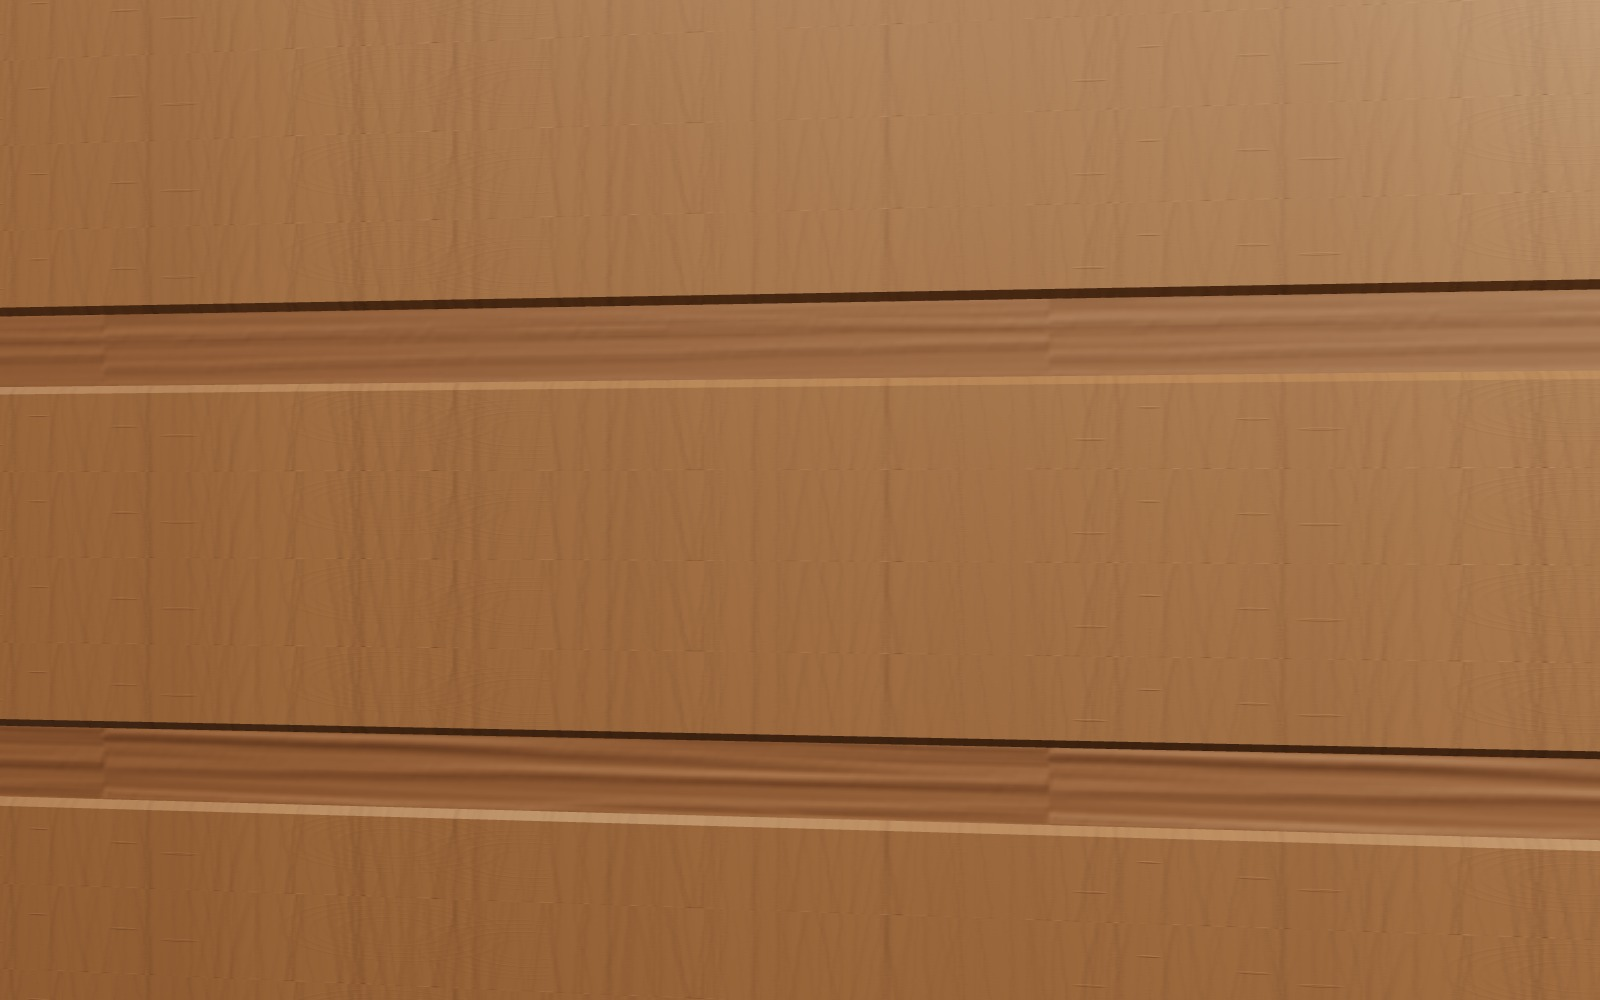
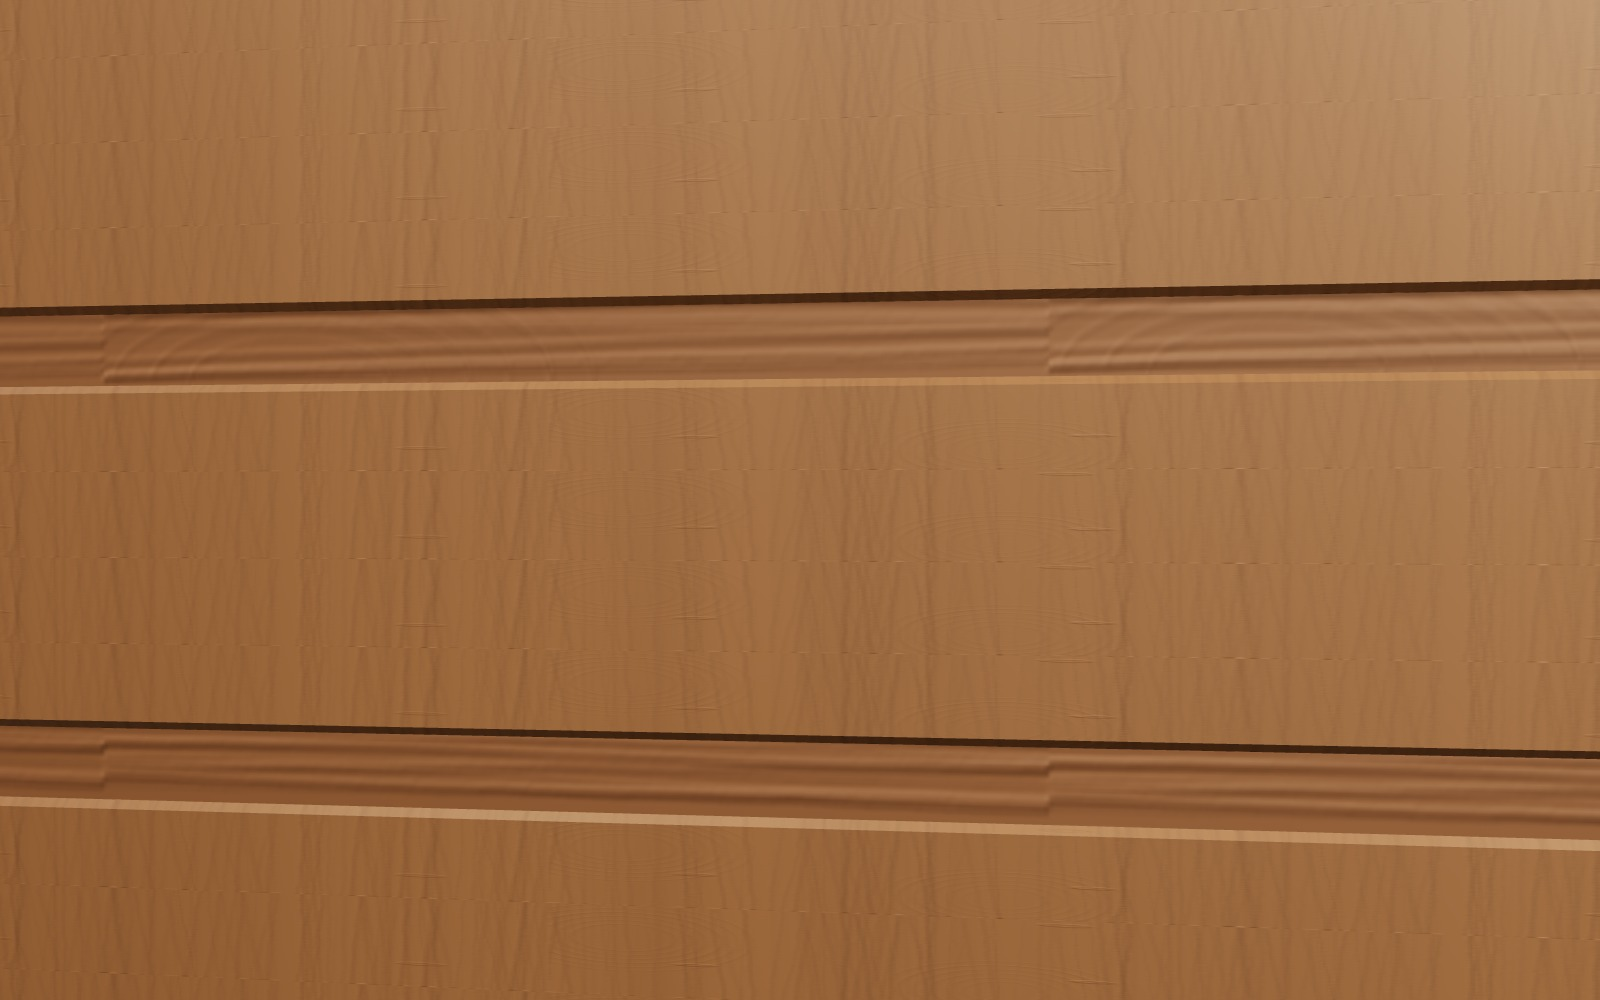
pantry corner corrected: real doorway photo-confirmed, blank chamfer, slider provisional behind one question — plus fresh stills + 17-card decide queue
source-commit: 18a1acdcde2c43df9d43f6489387a1fca3f50dda

diff --git a/house-3d.html b/house-3d.html
@@ -180,9 +180,14 @@ const PLAN = {
     // door is the measured swing on the chamfer (wall45d). D18 was the SAME door
     // mis-hosted here by the disproven frame (C-50: "was a swing leaf"); its
     // slider successor lives on the PROPOSED extended wall (wall45sq below).
-    // C-75 addendum: z1 DERIVES from SLIDER — the wall south of the split is
-    // w_peS (existing only, below), so the proposed opening never cuts this.
-    {id:'w_pe',  x0:186.2,  x1:192.3, z0:-95.5, z1:SLIDER.z1, tint:0xdfd8c9},
+    // C-74 add.3: the pantry east wall is now w_peN + [the peDoor band] + w_peD.
+    // The band z -90.7..-57.7 (33", position INFERRED, video says south-biased)
+    // is the REAL pantry doorway: swing leaf existing (alder E face, WHITE W
+    // back), provisional OPEN access in the proposal until Kitchen's Phase-2
+    // sites the slider (C-75 cut PROVISIONAL, gated on the 30-SLIDE answer).
+    // Walls builds the band from peDoor below; buildWall never sees it.
+    {id:'w_peN', x0:186.2,  x1:192.3, z0:-95.5, z1:-90.7, tint:0xdfd8c9},
+    {id:'w_peD', x0:186.2,  x1:192.3, z0:-57.7, z1:-52.9, tint:0xdfd8c9},
     // ONE continuous north wall: bathroom, pantry and the kitchen sink leg all
     // share it. The old k_n / k_nw jog was a fabrication.
     {id:'w_back',x0:-110.4, x1:174.1, z0:-101.5,z1:-95.5},
@@ -217,8 +222,12 @@ const PLAN = {
   // continuation (x 152.3..186.2 flat at z -25..-19) into the proposed state.
   // It carries THE pantry door (M-9c): ~33" leaf, hinge 5.2" from the south end,
   // swings into dining. As-built swing; C-50 makes it a slider in the proposal.
-  wall45d:{id:'w_45d', ax:152.3, az:-19, bx:186.2, bz:-52.9, t:6, existOnly:true,
-           door:{off:5.2, w:33, casing:2.5}},
+  // C-74 add.3: NO door on the chamfer — Poly-Doors recorded D18's OPEN LEAF
+  // standing in this plane (the detector records the leaf, not the doorway);
+  // shelves wrap the chamfer inside the pantry. Blank face, existing state.
+  wall45d:{id:'w_45d', ax:152.3, az:-19, bx:186.2, bz:-52.9, t:6, existOnly:true},
+  // C-74 add.3: the real pantry doorway band — see w_peN/w_peD comment above.
+  peDoor:{x0:186.2, x1:192.3, z0:-90.7, z1:-57.7, inferred:true},
   // C-74 addendum: the PROPOSAL's shell at the same corner (design geometry —
   // the squaring decision C-2/M-9b, not a measurement). TWO pieces, both
   // proposal-state (G.cab per Core's engine call): the squared run-wall band,
@@ -232,12 +241,12 @@ const PLAN = {
             // C-75 (by delegation): concealed top-hung track, opening HARD
             // against the corner end, leaf parks north, alder slab (C-21).
             // ⚠ w:33 is a CEILING — at 33.5" no slider of any type fits (C-75).
+            // ⚠ C-74 add.3: PROVISIONAL — DO NOT BUILD. peExt alone (27.9")
+            // cannot host this 33" cut; siting is Kitchen's Phase-2 call,
+            // gated on Jake's 30-SLIDE answer (C-75 addendum 2 decision rule).
             door:{z0:SLIDER.z0, z1:SLIDER.z1, w:SLIDER.w,
-                  type:'slider-concealed', park:'north'}},
-  // C-75 addendum: the 6.6" of old pantry east wall that survives ONLY in the
-  // existing state (the proposal's opening swallows it). existOnly like wall45d;
-  // Walls builds it into G.exist. Extent derives from SLIDER — one fact.
-  w_peS:{id:'w_peS', x0:186.2, x1:192.3, z0:SLIDER.z1, z1:-52.9, existOnly:true},
+                  type:'slider-concealed', park:'north', provisional:true}},
+
   rooms:[
     {id:'bath', l:'BATHROOM', x0:0,     x1:75.75, z0:-101.5,z1:-19},     // 6'-3-3/4" x 5'-10-1/2"
     {id:'pant', l:'PANTRY',   x0:81.82, x1:186.2, z0:-101.5,z1:-19},     // C-74: east wall measured at ~186 (was circular 86.2 wide)
@@ -1082,22 +1091,15 @@ PLAN.walls.forEach(buildWall);
   const at=a=>a-len/2;                                  // face distance -> local x
   const seg=(a,b,y0,y1,m,d,z)=>{ if(b-a<=0.05||y1-y0<=0.05) return;
     box(b-a, y1-y0, d||w.t, m||MAT.wall, at((a+b)/2), (y0+y1)/2, z||0, g); };
-  const o0=w.door.off, o1=w.door.off+w.door.w, C=w.door.casing, CT=0.8, R=0.05;
-  seg(0,o0,0,H); seg(o1,len,0,H); seg(o0,o1,DOOR_H,H);  // jambs + header
-  // baseboard, dining face only — the run wall's own base dies at x=152.3 and a
-  // baseboard that stops mid-wall is exactly what gets noticed
-  seg(0,o0,0,5.5,MAT.base,0.7,F+0.35); seg(o1,len,0,5.5,MAT.base,0.7,F+0.35);
-  // casing. The legs run R PAST the opening, never short of it — stopping short
-  // hands the reveal to the wall and turns 6" of alder jamb into white plaster,
-  // which is the regression Jake caught on the other three doors today.
-  const csg=(a,b,y0,y1)=>box(b-a, y1-y0, w.t+CT*2, MAT.alder, at((a+b)/2), (y0+y1)/2, 0, g);
-  csg(o0-C,o0+R,0,DOOR_H+C); csg(o1-R,o1+C,0,DOOR_H+C); csg(o0-C,o1+C,DOOR_H,DOOR_H+C);
-  // leaf, closed, on the dining face. In G.exist rather than G.leafC/G.leafO, so
-  // it follows the STATE (this door does not exist in the proposal) rather than
-  // the Doors toggle — it is deliberately not animated.
-  box(o1-o0-0.2, DOOR_H-1, 1.75, MAT.alder, at((o0+o1)/2), (1+DOOR_H)/2, F+1.08, g);
-  for(const p of [[5,DOOR_H*0.44],[DOOR_H*0.5,DOOR_H-4]])
-    box(o1-o0-6.2, p[1]-p[0], 0.35, MAT.panel, at((o0+o1)/2), (p[0]+p[1])/2, F+1.78, g);
+  // ⚠ BLANK FACE — no door here. C-74 addendum 3: the frame-verified video shows
+  // SHELVING WRAPPING THIS CORNER BAY inside the pantry, and nobody shelves across
+  // a doorway. The scan's Poly-Doors entity in this plane was D18's OPEN LEAF —
+  // a door detector records where the leaf IS, not where the doorway is. My own
+  // baseboard evidence said the same thing first and I only read half of it:
+  // three segments and two mitres at IMG_3585 put the casing on the plane AFTER
+  // the facet, not on the facet. The doorway is the peDoor band in w_pe, below.
+  seg(0,len,0,H);
+  seg(0,len,0,5.5,MAT.base,0.7,F+0.35);                 // baseboard, dining face
 })();
 // PLAN.wall45sq — the PROPOSED shell, two pieces, both G.cab so they appear only
 // with the proposal and vanish with it (the chamfer above is G.exist and does the
@@ -1123,24 +1125,33 @@ PLAN.walls.forEach(buildWall);
   }
 })();
 
-// C-75: w_peS — the 6.6" of pantry east wall SOUTH of the slider's north edge.
-// EXISTING STATE ONLY. The proposed slider's opening runs through this stretch,
-// so if this stub existed in the proposal the door would be cut through solid
-// wall; and if it did not exist in the EXISTING state, the pantry's east wall
-// would have a 6.6" hole in it — which is precisely the state the model was in
-// between Hub's PLAN split and this commit, deliberately and briefly.
-// Its extent derives from SLIDER (01-plan.js), so resizing the door moves this
-// wall with it rather than quietly reopening the old one.
-// The tint is read off w_pe rather than repeated: this IS a piece of that wall,
-// and a second literal here is a colour seam waiting for someone to retint one
-// of them. Same reason SLIDER exists at all.
+// C-74 add.3: the peDoor band — the REAL pantry doorway, in w_pe between
+// w_peN and w_peD. buildWall never sees it; the two flanking stubs are ordinary
+// PLAN.walls entries and this is the hole between them.
+//   EXISTING  jambs are the stubs themselves, so this builds the head, the casing
+//             and a swing leaf: alder face EAST (the kitchen/transition side you
+//             enter from), WHITE back WEST into the pantry, per the video.
+//   PROPOSED  left OPEN, no infill. The rework moves pantry access to C-50's
+//             slider, whose position is Kitchen's Phase-2 composition question —
+//             so leaving the band open keeps the proposal accessible instead of
+//             sealing the pantry behind a door nobody has sited yet.
+// ⚠ The leaf is built SWINGING, not parked flat. The stubs either side are 4.8",
+// and a 33" leaf cannot lie flat on 4.8" of wall — the same arithmetic that made
+// me stop building impossible parked leaves in doorSet this afternoon.
 (function(){
-  const p=PLAN.w_peS, B=5.5, T=0.7;
-  const src=PLAN.walls.find(w=>w.id==='w_pe');
-  const m=pbox(p.x0,p.x1,p.z0,p.z1,0,H,TINT(src.tint),G.exist); m.userData={y0:0,y1:H};
-  const b1=pbox(p.x0-T,p.x0,p.z0,p.z1,0,B,MAT.base,G.exist);
-  const b2=pbox(p.x1,p.x1+T,p.z0,p.z1,0,B,MAT.base,G.exist);
-  b1.userData=b2.userData={y0:0,y1:B};
+  const p=PLAN.peDoor, C=3.2, CT=0.8, R=0.05, B=5.5, T=0.7;
+  const tint=TINT(PLAN.walls.find(w=>w.id==='w_peN').tint);
+  const A=(z0,z1,y0,y1,m)=>{const b=pbox(p.x0-CT,p.x1+CT,z0,z1,y0,y1,m,G.exist);
+    b.userData={y0,y1}; return b;};
+  A(p.z0,p.z1,DOOR_H,H,tint);                           // header over the opening
+  A(p.z0-C,p.z0+R,0,DOOR_H+C,MAT.alder);                // casing, running PAST the
+  A(p.z1-R,p.z1+C,0,DOOR_H+C,MAT.alder);                // opening, never short
+  A(p.z0-C,p.z1+C,DOOR_H+R,DOOR_H+C,MAT.alder);
+  // swing leaf, hinged at the south jamb, standing ~30 deg into the transition
+  const wdt=p.z1-p.z0, g=new THREE.Group();
+  g.position.set(p.x1,0,p.z1); g.rotation.y=-0.52; G.exist.add(g);
+  box(1.75,DOOR_H-1,wdt,MAT.alder,0.9,(1+DOOR_H)/2,-wdt/2,g);        // alder, east
+  box(0.35,DOOR_H-1,wdt-0.4,M(0xefe9dd,0.9),-0.05,(1+DOOR_H)/2,-wdt/2,g);  // white back
 })();
 /* ===================== the run: wine + coffee ===================== */
 (function(){
@@ -2849,4 +2860,4 @@ tick();
 </script>
 </body>
 </html>
-<!-- build:b7ce5bc -->
+<!-- build:18a1acd -->

diff --git a/index.html b/index.html
@@ -271,42 +271,17 @@
 
   <script id="decisions-data" type="application/json">
   {
-    "updated": "17 Aug, evening — vault-slope struck: the vault is FLAT (two instruments agree; the slope claim was retracted)",
+    "updated": "17 Aug — 3585 narrowed: subject identified from the photo, only the reading is still needed",
     "groups": [
       {
         "title": "Decisions",
         "items": [
-          {
-            "id": "block-width",
-            "q": "The new closet + fridge block — how wide?",
-            "why": "The two candidates from your sketch.",
-            "options": [
-              "66 inches",
-              "86 — out to the window jamb"
-            ]
-          },
-          {
-            "id": "skinny-cab",
-            "q": "The skinny cabinet beside the fridge — how wide?",
-            "options": [
-              "18 inches",
-              "21.1 — the full space"
-            ]
-          },
           {
             "id": "ninety-four",
             "q": "The ~94 inch measurement you gave — width or depth?",
             "options": [
               "Width",
               "Depth"
-            ]
-          },
-          {
-            "id": "drawer-fronts",
-            "q": "Are the drawer fronts going back on the existing counter?",
-            "options": [
-              "Yes, back on",
-              "No, staying off"
             ]
           },
           {
@@ -317,26 +292,41 @@
           {
             "id": "medallion",
             "q": "The tile medallion above the range — keep it, or let it go?",
-            "why": "You generated the new kitchen style both ways: one with the diamond medallion above the range, one without. Both are on the site. The medallion is in the house today and it survives into the first version; the second drops it for plain stacked tile. (If you didn't mean these as alternatives, say so and we'll keep whichever matches the rest.) Default if you say nothing: keep it — it was deleted once by inference and restored by your own correction.",
+            "why": "It's the diamond-patterned tile panel set into the backsplash directly above your cooktop — a framed square of small diamonds with an ornate border, surrounded by the plain travertine. It's in the house today. You generated the new kitchen style both with it and without it, so we're asking rather than guessing. Default if you say nothing: keep it — it was deleted once by inference and restored by your own correction.",
             "options": [
               "Keep the medallion",
               "Drop it"
             ]
           },
           {
-            "id": "counter-end-gaps",
-            "q": "The gap at each end of the existing counter — west end to the corner, east end to the door casing.",
-            "why": "Two numbers, and the one thing photographs genuinely cannot give us. The counter's end panel stands 24 inches forward of the wall, so no single photo can separate depth from sideways position — five separate attempts failed today for that reason, not for lack of trying. More pixels won't fix it. A tape will. It's the last assumption holding up the counter's exact position.",
+            "id": "beam-position",
+            "q": "From the run wall to the near face of the dining ceiling beam — how far?",
+            "why": "Your three photographs proved there is ONE beam, not three, and two were deleted on that evidence. But a photograph settles how many things there are, not where they are — in your photo the real beam sits nearer the camera than anything modelled, and nobody nudged it to match by eye. This is the oldest unresolved item in the Walls lane and it has now blocked twice. One tape.",
             "options": []
           },
           {
-            "id": "winebay-fascia",
-            "q": "Conceal the wine bay's slider track behind a fascia?",
-            "why": "The track runs exposed for fourteen feet above the run, and the ledger already records a preference for tracks hidden behind a fascia. The Wine Wall lane deliberately did not decide this one — unlike the cove strip, which showed zero visible pixels and was simply dropped, this is a visible change to a run your dad has been reviewing for weeks.",
+            "id": "cabinet-aesthetic",
+            "q": "The new kitchen cabinets — light shaker like your concept images?",
+            "why": "In the video, when your dad says the fridge front should 'look like that', the camera is dwelling on the EXISTING alder bank. So 'that' could mean the concept style you generated, or match-the-existing-alder. Your standing word says the concept style — one line confirms it before materials get applied.",
             "options": [
-              "Conceal it",
-              "Leave it exposed"
+              "Light shaker, like the concept images",
+              "Match the existing alder"
             ]
+          },
+          {
+            "id": "thirty-leaf-or-opening",
+            "q": "Your tape note says '30 SLIDE' — is 30 the door panel itself, or the finished opening?",
+            "why": "One answer picks the door's position AND its mechanism; nothing else about it needs you. If 30 is the PANEL: the door stays exactly where your dad framed it with his palms in the video, slides south over the new wall, and becomes a pocket — the only kind that truly 'almost disappears into the wall', which is his phrase. If 30 is the OPENING: the doorway has to move to the corner end of the new wall, slides north, on a concealed surface track. They aren't interchangeable — a 33-inch opening physically cannot fit where he framed it; the park wall is 2.8 inches short. Kitchen's read, noted but not acted on: the panel reading fits the video better.",
+            "options": [
+              "30 is the door panel",
+              "30 is the finished opening"
+            ]
+          },
+          {
+            "id": "tape-line-phrase",
+            "q": "At 12 seconds your dad says something like 'pushed to that table' — did he mean 'tape line'?",
+            "why": "The transcription is ambiguous there and it was recorded as ambiguous rather than resolved. There IS blue floor tape marking the cut, so 'tape line' fits — but one word from you settles it instead of us picking.",
+            "options": []
           }
         ]
       },
@@ -360,8 +350,9 @@
           },
           {
             "id": "cap-3585",
-            "q": "IMG_3585 — what is it showing?",
-            "options": []
+            "q": "IMG_3585 — what number was the tape showing?",
+            "options": [],
+            "why": "We worked out what this photo is of, so you don't have to tell us: the blue L-shaped cut-line tape on the floor at the pantry-door corner, with your tape measure in frame. It also confirmed which way the door leaf faces, which closed a separate open item. All that's left is the reading itself — the number was too small to resolve."
           },
           {
             "id": "cap-3594",
@@ -394,11 +385,6 @@
           {
             "id": "cap-3605",
             "q": "IMG_3605 — what is it showing?",
-            "options": []
-          },
-          {
-            "id": "cap-30slide",
-            "q": "What does '30 SLIDE' on the drawing mean?",
             "options": []
           }
         ]
